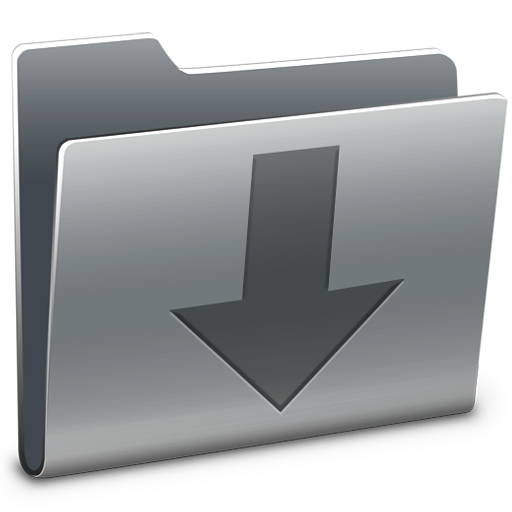
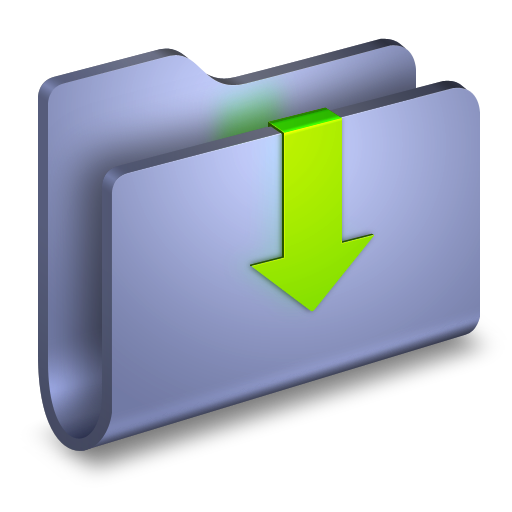
update: 修改数据库连接方式，优化云盘

diff --git a/src/pages/CloudDisk/index.tsx b/src/pages/CloudDisk/index.tsx
@@ -1,41 +1,59 @@
 /*
  * @Author: your name
  * @Date: 2021-12-21 14:41:34
- * @LastEditTime: 2022-01-26 15:06:12
- * @LastEditors: Please set LastEditors
+ * @LastEditTime: 2022-02-22 18:58:15
+ * @LastEditors: zhangjicheng
  * @Description: 打开koroFileHeader查看配置 进行设置: https://github.com/OBKoro1/koro1FileHeader/wiki/%E9%85%8D%E7%BD%AE
  * @FilePath: \blog-app\src\pages\CloudDisk\index.tsx
  */
 
 import React, { FC, useState, useRef } from 'react';
-import { Button, Input, Menu, Badge } from 'antd';
+import { Button, Input, Menu, Tabs, Badge } from 'antd';
 import AllFiles from './AllFiles';
-import moment from 'moment';
-import {
-  FolderOutlined,
-  ContainerOutlined,
-  CloudDownloadOutlined,
-} from '@ant-design/icons';
+import { ImgIcon } from 'components/Icon';
+import downloadImg from 'assets/cloudDisk/folder_download.png';
+import ownerImg from 'assets/cloudDisk/folder_owner.png';
+import publicImg from 'assets/cloudDisk/folder_public.png';
+import uploadImg from 'assets/cloudDisk/folder_upload.png';
 
 import BreadCrumbNode from 'utils/BreadCrumbNode';
 
 import styles from './index.less';
 
 const { Search } = Input;
+const { TabPane } = Tabs;
 const { Item, ItemGroup } = Menu;
 
-const allMenu = new BreadCrumbNode('all', '全部文件');
-const resourcesMenu = new BreadCrumbNode('resources', '我的资源', 'all');
-const downloadMenu = new BreadCrumbNode('public', '共享文件', 'all');
-
 const tabMenus = [
-  { node: allMenu, icon: <FolderOutlined /> },
-  { node: resourcesMenu, icon: <ContainerOutlined /> },
-  { node: downloadMenu, icon: <CloudDownloadOutlined /> },
+  {
+    value: 'private',
+    label: '我的文件',
+    icon: <ImgIcon style={{ fontSize: 28, marginRight: 8 }} src={ownerImg} />,
+  },
+  {
+    value: 'public',
+    label: '共享文件',
+    icon: <ImgIcon style={{ fontSize: 28, marginRight: 8 }} src={publicImg} />,
+  },
+];
+
+const transMenus = [
+  {
+    value: 'upload',
+    label: '正在上传',
+    icon: <ImgIcon style={{ fontSize: 28, marginRight: 8 }} src={uploadImg} />,
+  },
+  {
+    value: 'download',
+    label: '正在下载',
+    icon: (
+      <ImgIcon style={{ fontSize: 28, marginRight: 8 }} src={downloadImg} />
+    ),
+  },
 ];
 
 const CloudDisk: FC<any> = (props) => {
-  const [navTab, setNavTab] = useState<string>(allMenu.id);
+  const [navTab, setNavTab] = useState<string>(tabMenus[0].value);
   const [AllFilesSelectedKeys, setAllFilesSelectedKeys] = useState<string[]>(
     [],
   );
@@ -72,6 +90,10 @@ const CloudDisk: FC<any> = (props) => {
     current?.upload();
   }
 
+  function onTabChange(key: string) {
+    setNavTab(key);
+  }
+
   return (
     <div className={styles.cloudDisk}>
       <div className={styles.headerWrap}>
@@ -100,51 +122,57 @@ const CloudDisk: FC<any> = (props) => {
       </div>
       <div className={styles.content}>
         <Menu selectedKeys={[navTab]} mode="inline" className={styles.menu}>
+          <p className={styles.menuLabel}>文件列表</p>
           {tabMenus.map((item) => (
-            <Item key={item.node.id} onClick={() => openDir(item.node)}>
-              {item.icon}
-              <span>{item.node.name}</span>
+            <Item key={item.value} onClick={() => onTabChange(item.value)}>
+              <span className={styles.menuItem}>
+                {item.icon}
+                <span>{item.label}</span>
+              </span>
             </Item>
           ))}
-          {/* <ItemGroup title="传输列表">
-            <Item
-              key="upload"
-              onClick={() => {
-                this.setNavTab('upload');
-                this.onTabChange('uploadPage');
-              }}
-            >
-              <Badge count={uploadCount} offset={[13, 0]} overflowCount={99}>
-                <CloudUploadOutlined />
-                <span>正在上传</span>
-              </Badge>
-            </Item>
-            <Item
-              key="download"
-              onClick={() => {
-                this.setNavTab('download');
-                this.onTabChange('loadingPage');
-              }}
-            >
-              <Badge count={loadingCount} offset={[13, 0]} overflowCount={99}>
-                <div
-                  ref={e => {
-                    this.downLoadingNav = e;
-                  }}
+          <p className={styles.menuLabel}>传输列表</p>
+          {transMenus.map((item) => (
+            <Item onClick={() => onTabChange(item.value)}>
+              <span className={styles.menuItem}>
+                {item.icon}
+                <Badge
+                  key={item.value}
+                  count={9}
+                  size="small"
+                  offset={[13, 0]}
+                  overflowCount={99}
                 >
-                  <Icon type="download" />
-                  <span>正在下载</span>
-                </div>
-              </Badge>
+                  <span style={{ fontSize: 13 }}>{item.label}</span>
+                </Badge>
+              </span>
             </Item>
-          </ItemGroup> */}
+          ))}
         </Menu>
         <div className={styles.mainBody}>
-          <AllFiles
-            cRef={AllFilesRef}
-            onHistoryChange={onAllFilesMenuChange}
-            onSelectedChange={onSelectedChange}
-          />
+          <Tabs
+            onChange={onTabChange}
+            animated
+            activeKey={navTab}
+            tabBarStyle={{ display: 'none' }}
+          >
+            <TabPane tab="myFiles" key="private">
+              <AllFiles
+                cRef={AllFilesRef}
+                // onHistoryChange={onAllFilesMenuChange}
+                onSelectedChange={onSelectedChange}
+              />
+            </TabPane>
+            <TabPane tab="publicFiles" key="public">
+              publicFiles
+            </TabPane>
+            <TabPane tab="uploadFiles" key="upload">
+              uploadFiles
+            </TabPane>
+            <TabPane tab="downloadFiles" key="download">
+              downloadFiles
+            </TabPane>
+          </Tabs>
         </div>
       </div>
     </div>

diff --git a/src/pages/CloudDisk/AllFiles/index.tsx b/src/pages/CloudDisk/AllFiles/index.tsx
@@ -1,7 +1,7 @@
 /*
  * @Author: zhangjicheng
  * @Date: 2021-12-23 20:19:17
- * @LastEditTime: 2022-02-17 18:25:03
+ * @LastEditTime: 2022-02-22 17:21:02
  * @LastEditors: zhangjicheng
  * @Description: 打开koroFileHeader查看配置 进行设置: https://github.com/OBKoro1/koro1FileHeader/wiki/%E9%85%8D%E7%BD%AE
  * @FilePath: \blog-app\src\pages\CloudDisk\AllFiles\index.tsx
@@ -18,7 +18,7 @@ import avi from 'assets/cloudDisk/avi.png';
 import classnames from 'classnames';
 import moment from 'js-moment';
 import fileDownload from 'js-file-download';
-import { Table, Input, Modal, Image } from 'antd';
+import { Modal } from 'antd';
 import FilesTable from './components/FilesTable';
 import HistoryBar from '../components/HistoryBar';
 import FilePlayer from 'components/FilePlayer';
@@ -37,7 +37,7 @@ import { getCategory } from 'utils/filesType';
 import styles from './index.less';
 
 const AllFiles: FC<any> = (props) => {
-  const { cRef, onHistoryChange, onSelectedChange } = props;
+  const { cRef, onSelectedChange } = props;
 
   const HistoryBarRef = useRef(null);
   const fileRef = useRef(null);
@@ -60,14 +60,14 @@ const AllFiles: FC<any> = (props) => {
   async function addHistory(node: BreadCrumbNode) {
     const { id } = node;
     await fetchData(id);
-    onHistoryChange(node);
+    // onHistoryChange(node);
     push(node);
   }
 
   // 面包屑导航变化触发
   async function onMenuChange(node: BreadCrumbNode) {
     await fetchData(node.id);
-    onHistoryChange(node);
+    // onHistoryChange(node);
     setCurrentNode(node);
   }
 
@@ -102,7 +102,7 @@ const AllFiles: FC<any> = (props) => {
         console.error(err);
         return;
       }
-      onHistoryChange(node);
+      // onHistoryChange(node);
       push(node);
       setCurrentNode(node);
     }
@@ -210,7 +210,7 @@ const AllFiles: FC<any> = (props) => {
       return;
     }
     const { data } = res;
-    onHistoryChange(node);
+    // onHistoryChange(node);
     push(node);
     setCurrentNode(node);
     // 此处传入新的filesList、currentNode, 以规避setFilesList及currentNode的延迟

diff --git a/src/pages/CloudDisk/index.less b/src/pages/CloudDisk/index.less
@@ -31,6 +31,33 @@
     margin-top: 10px;
     .menu {
       width: 200px;
+      :global {
+        .ant-menu-item {
+          margin: 0;
+        }
+      }
+      .menuLabel {
+        font-size: 13px;
+        color: #999;
+        margin: 0 0 0 28px;
+        line-height: normal;
+        padding: 10px 0px 10px 10px;
+        position: relative;
+        &:before {
+          content: '';
+          position: absolute;
+          width: 2px;
+          height: 13px;
+          left: 0;
+          top: 14px;
+          background-color: #bdbdbd;
+        }
+      }
+      .menuItem {
+        font-size: 13px;
+        display: flex;
+        align-items: center;
+      }
     }
     .mainBody {
       flex: 1;

diff --git a/config/routes.config.ts b/config/routes.config.ts
@@ -1,8 +1,8 @@
 /*
  * @Author: your name
  * @Date: 2021-11-08 15:46:56
- * @LastEditTime: 2021-12-21 14:43:58
- * @LastEditors: Please set LastEditors
+ * @LastEditTime: 2022-02-21 15:22:37
+ * @LastEditors: zhangjicheng
  * @Description: 打开koroFileHeader查看配置 进行设置: https://github.com/OBKoro1/koro1FileHeader/wiki/%E9%85%8D%E7%BD%AE
  * @FilePath: \blog-app\config\routes.config.ts
  */

diff --git a/src/components/FileIcon/index.tsx b/src/components/FileIcon/index.tsx
@@ -1,7 +1,7 @@
 /*
  * @Author: your name
  * @Date: 2021-12-30 11:42:24
- * @LastEditTime: 2022-02-17 15:43:45
+ * @LastEditTime: 2022-02-22 18:11:36
  * @LastEditors: zhangjicheng
  * @Description: 打开koroFileHeader查看配置 进行设置: https://github.com/OBKoro1/koro1FileHeader/wiki/%E9%85%8D%E7%BD%AE
  * @FilePath: \blog-app\src\components\FileIcon\index.tsx
